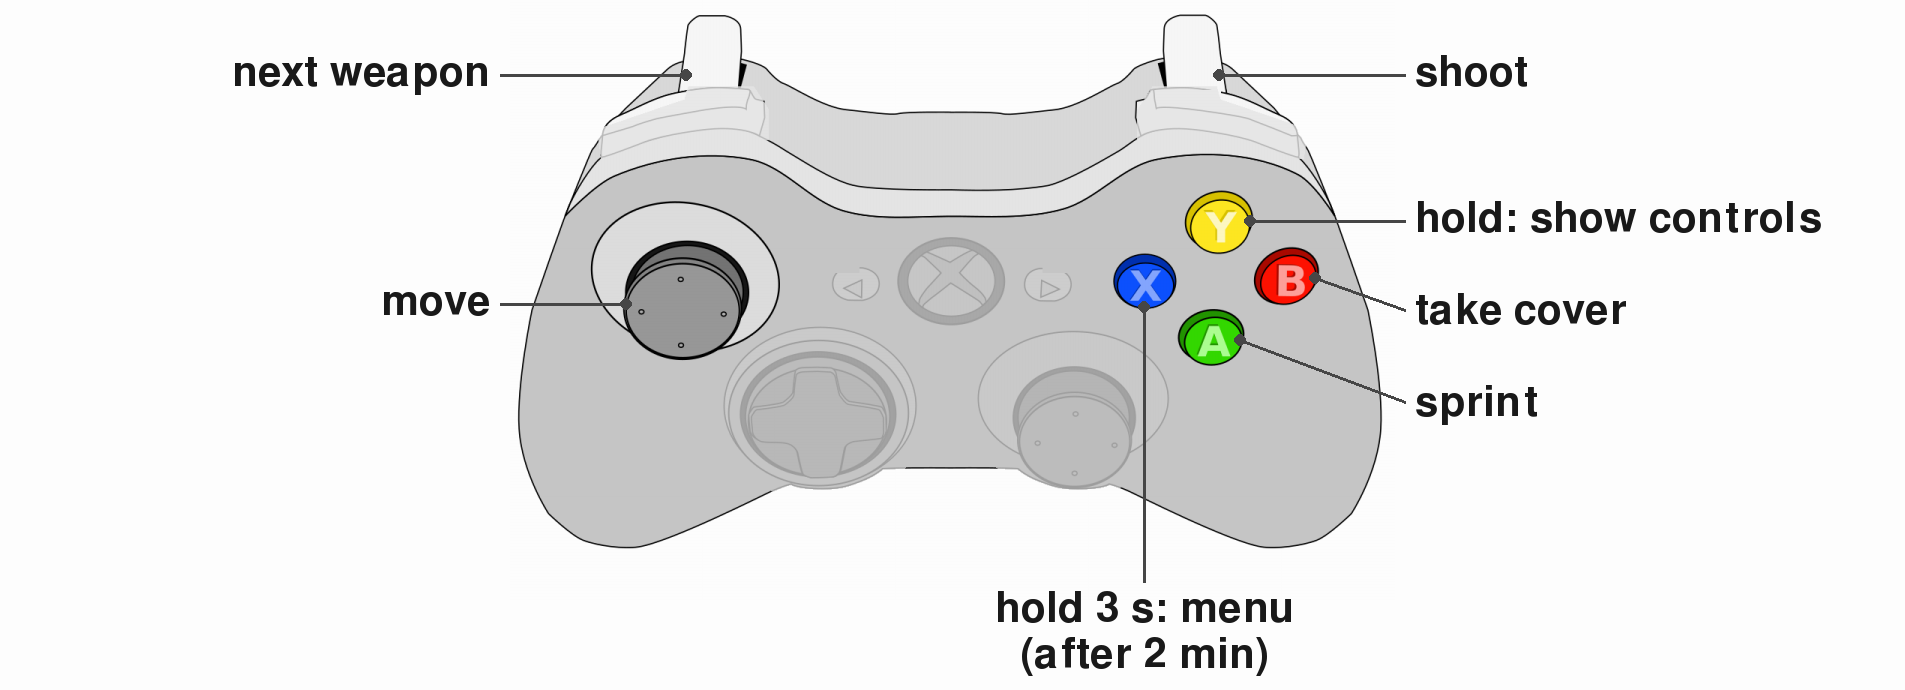
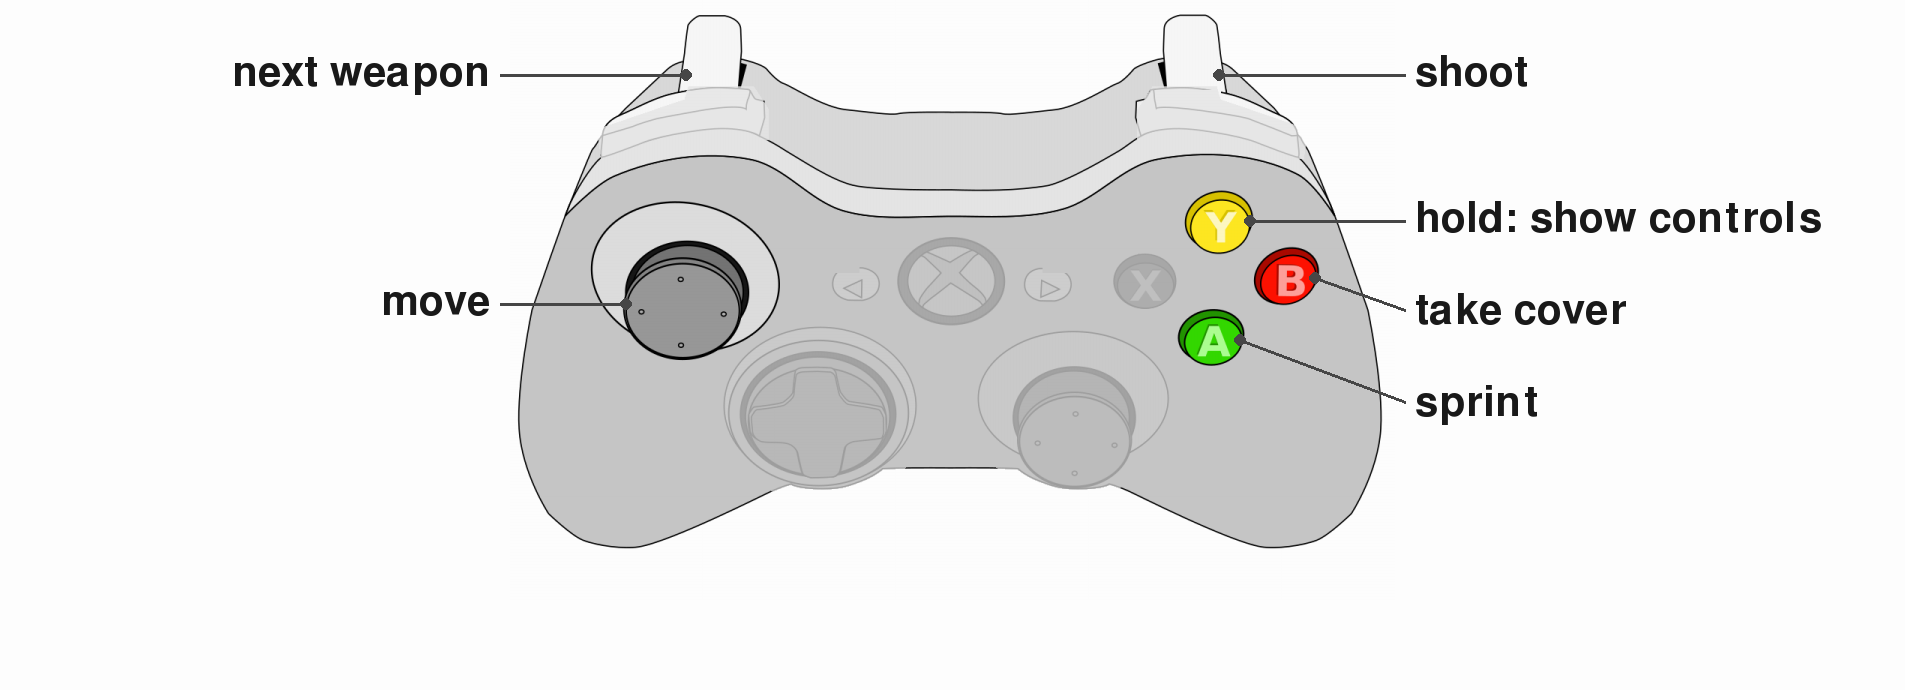
Extract has no pause menu on any input

Changed region(s): [[0.5265, 0.8522, 0.6814, 0.9739], [0.5575, 0.3652, 0.6194, 0.4565]]

diff --git a/configs/curricula/aigamestore/common/README.md b/configs/curricula/aigamestore/common/README.md
@@ -25,7 +25,7 @@ The env's action is MultiBinary over the game's keys, in `aigamestore_gym.GAME_K
 
 ## Levels
 
-An episode is one level: it ends on a win, a loss or a level clear, and `reset()` restarts the same level. Each level is one phase; drop or reorder them as the session needs. The blocks are blocking, as the games are: each is its level played until cleared (mode `episode`, `n_episodes` 1, `advance_on` `["won"]`); a loss restarts the same level, so the levels run back to back at the subject's own pace, and `duration` is the cap on a level nobody clears (game1, game7 and game8 set it longer than a run, so a level ends only when cleared, forfeited from the menu, or at the end of the run). Three games differ:
+An episode is one level: it ends on a win, a loss or a level clear, and `reset()` restarts the same level. Each level is one phase; drop or reorder them as the session needs. The blocks are blocking, as the games are: each is its level played until cleared (mode `episode`, `n_episodes` 1, `advance_on` `["won"]`); a loss restarts the same level, so the levels run back to back at the subject's own pace, and `duration` is the cap on a level nobody clears (game1, game7 and game8 set it longer than a run, so a level ends only when cleared, forfeited from the menu (game1 and game8; game7 has none), or at the end of the run). Three games differ:
 
 - **game4** (jetpack runner) has no levels and cannot be won: each episode is one run and ends when it is lost. Its block is in mode `duration`, long enough that runs follow one another until the run ends.
 - **game6** (shadow platformer) is one long level with checkpoints: the block is one attempt that counts only when won, a loss restarts it, and `duration` is 300 s.
